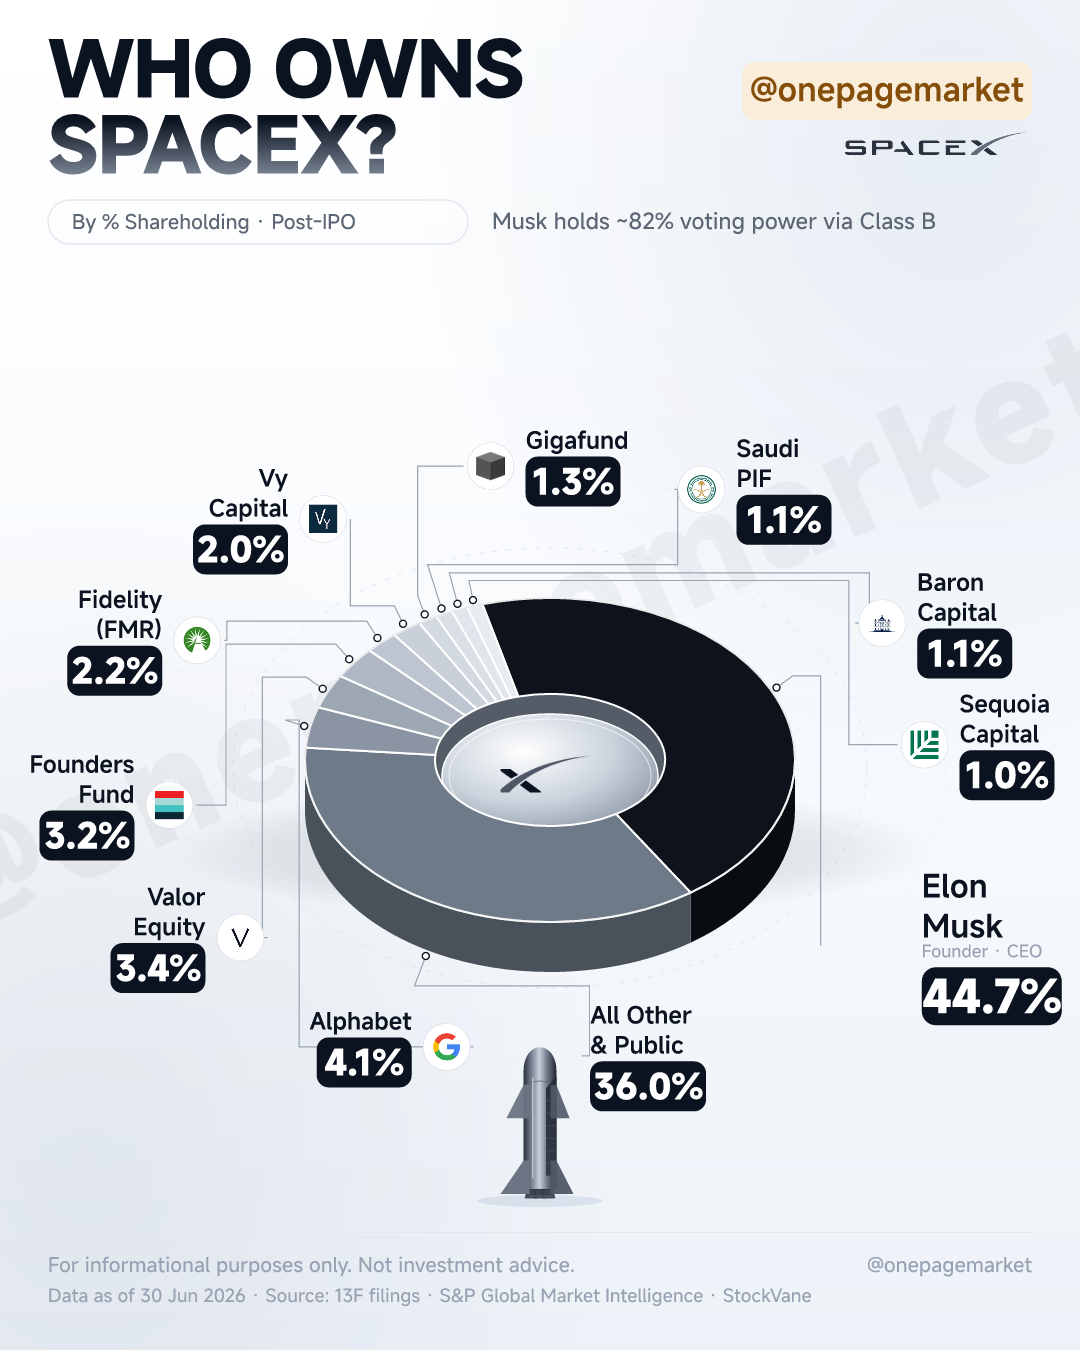
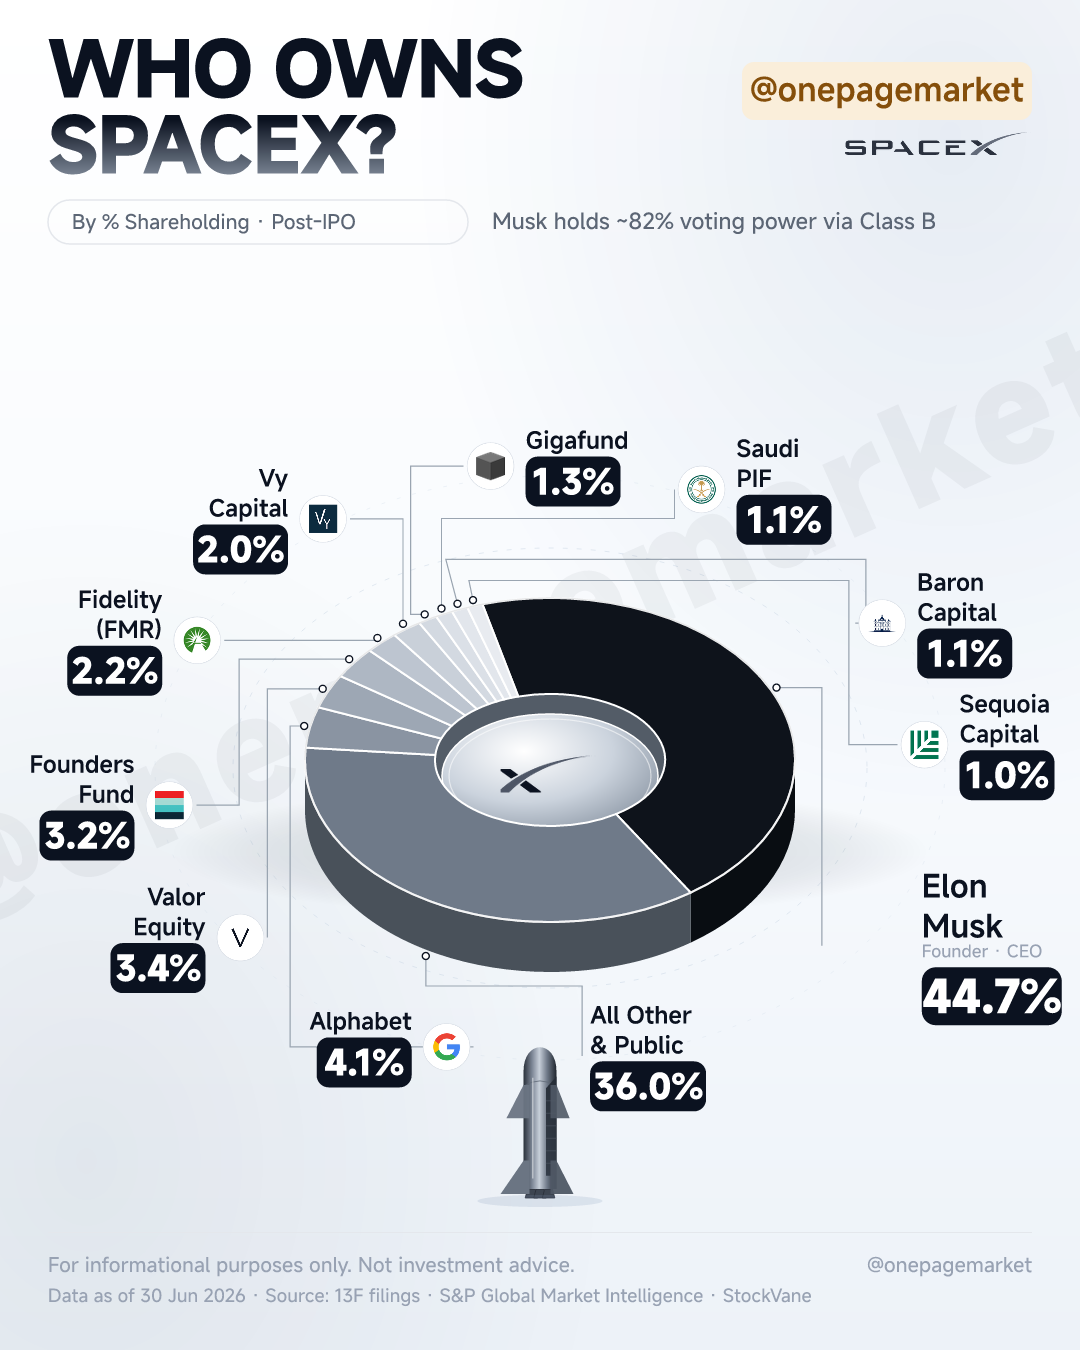
SPCX v6 leader lines: single-corner L shapes first (anchor vertical -> label height horizontal -> badge), then 2-corner L, staircase only as last resort; widen long-segment corridor separation to 18px

Changed region(s): [[0.2139, 0.4667, 0.3056, 0.56], [0.3667, 0.3733, 0.4278, 0.4667], [0.7333, 0.4978, 0.7639, 0.5289]]

diff --git a/scripts/build_ownership_spcx.js b/scripts/build_ownership_spcx.js
@@ -420,7 +420,7 @@ const segClear = (x1, y1, x2, y2, slots, self, gap) => {
   return ok;
 };
 const segFree = (x1, y1, x2, y2) => {
-  const thr = Math.hypot(x2 - x1, y2 - y1) > 120 ? 7 : 3;   // 長線段間距要拉開，避免視覺重疊
+  const thr = Math.hypot(x2 - x1, y2 - y1) > 120 ? 18 : 3;   // 長線段要拉開走廊，避免兩條平行線像雙線
   for (const sg of drawnSegs) {
     let bad = false;
     segPts(x1, y1, x2, y2, (x, y) => { if (distPtSeg(x, y, sg[0], sg[1], sg[2], sg[3]) < thr) bad = true; });
@@ -462,23 +462,19 @@ function drawOrbitLabel(sl, slots) {
     return segs;
   };
   let plan = null;
-  // A：短斜段出環 → 橫移（水平）→ 垂直 → 水平接徽章
-  // 車道優先貼近徽章（末段水平最短），避免長橫段橫穿別人的走廊
-  outerA:
-  for (const t of STUBS) {
-    const Dx = ax + nx * t, Dy = ay + ny * t;
-    if (!inXY(Dx, Dy)) continue;
-    const orderA = SHIFTS.slice().sort((p, q) => Math.abs(Dx + p - nearX) - Math.abs(Dx + q - nearX));
-    for (const sh of orderA) {
-      const Ex = Dx + sh;
-      if (!inXY(Ex, Dy)) continue;
-      for (const Ky of kys) {
-        const f = trySegs([[ax, ay, Dx, Dy], [Dx, Dy, Ex, Dy], [Ex, Dy, Ex, Ky], [Ex, Ky, nearX, Ky]]);
-        if (f) { plan = f; break outerA; }
-      }
-    }
+  // L1（首選，與參考圖一致）：錨點垂直段 → 到標籤高度轉水平 → 進徽章。只有一個直角。
+  outerL1:
+  for (const Ky of kys) {
+    const f = trySegs([[ax, ay, ax, Ky], [ax, Ky, nearX, Ky]]);
+    if (f) { plan = f; break outerL1; }
   }
-  // B：水平 → 垂直 → 水平（全直角）
+  // L2：錨點水平段 → 到徽章邊緣轉垂直 → 進徽章。同樣只有一個直角。
+  if (!plan) outerL2:
+  for (const Ky of kys) {
+    const f = trySegs([[ax, ay, nearX, ay], [nearX, ay, nearX, Ky]]);
+    if (f) { plan = f; break outerL2; }
+  }
+  // B：水平 → 垂直 → 水平（兩個直角，即參考圖裡「先橫出、再上下、再橫進」的走法）
   if (!plan) outerB:
   for (const sh of SHIFTS.slice().sort((p, q) => Math.abs(ax + p - nearX) - Math.abs(ax + q - nearX))) {
     const x1 = ax + sh;
@@ -496,6 +492,21 @@ function drawOrbitLabel(sl, slots) {
     for (const Ky of kys) {
       const f = trySegs([[ax, ay, ax, y1], [ax, y1, nearX, y1], [nearX, y1, nearX, Ky]]);
       if (f) { plan = f; break outerC; }
+    }
+  }
+  // A（最後手段）：短斜段出環 → 橫移 → 垂直 → 水平
+  if (!plan) outerA:
+  for (const t of STUBS) {
+    const Dx = ax + nx * t, Dy = ay + ny * t;
+    if (!inXY(Dx, Dy)) continue;
+    const orderA = SHIFTS.slice().sort((p, q) => Math.abs(Dx + p - nearX) - Math.abs(Dx + q - nearX));
+    for (const sh of orderA) {
+      const Ex = Dx + sh;
+      if (!inXY(Ex, Dy)) continue;
+      for (const Ky of kys) {
+        const f = trySegs([[ax, ay, Dx, Dy], [Dx, Dy, Ex, Dy], [Ex, Dy, Ex, Ky], [Ex, Ky, nearX, Ky]]);
+        if (f) { plan = f; break outerA; }
+      }
     }
   }
   let pts;
